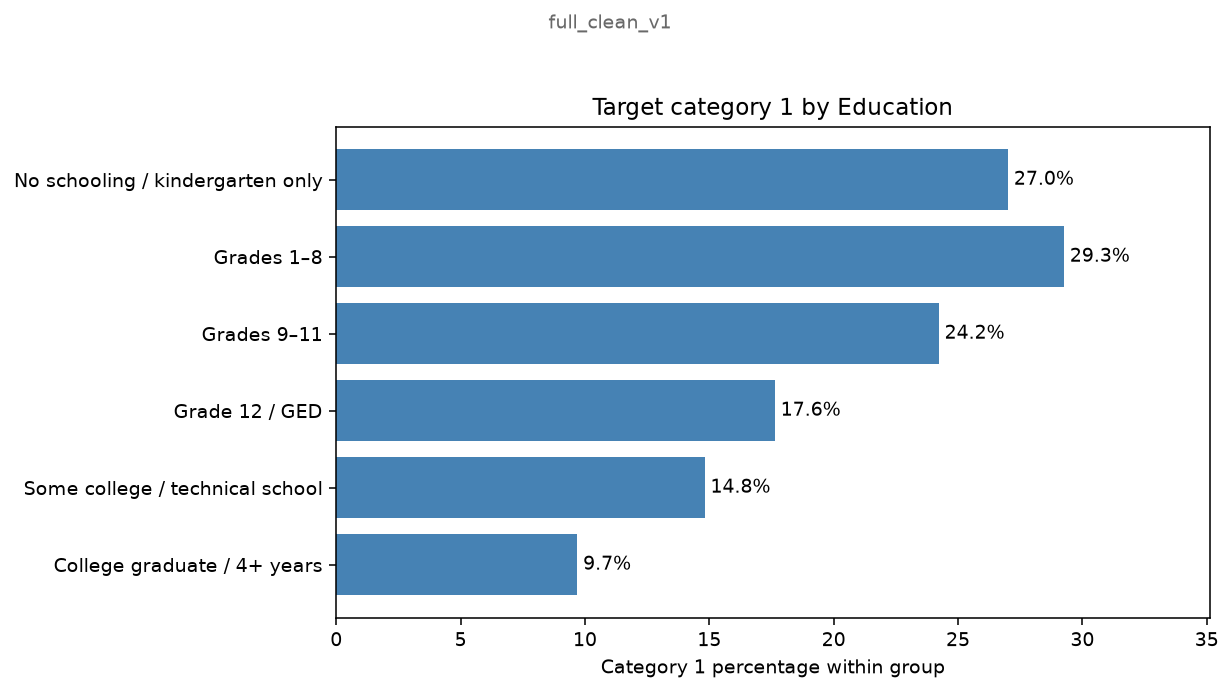
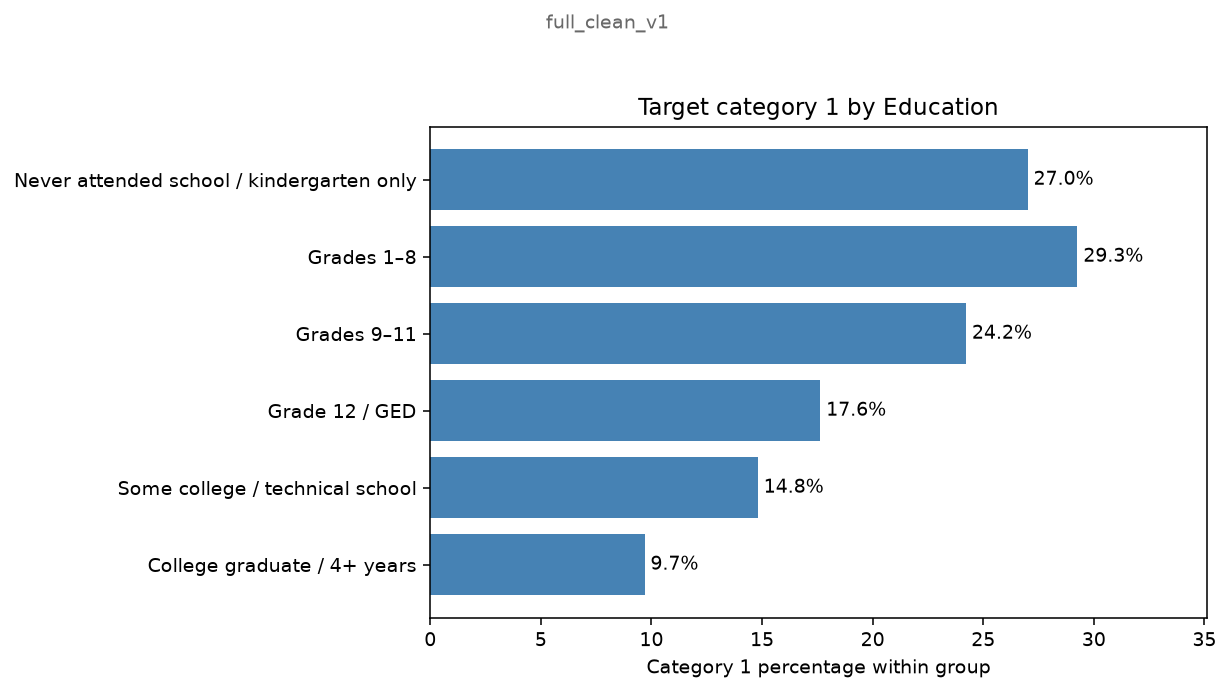
fix(data): use the codebook wording for Education code 1
Config and data dictionary said 'No schooling / kindergarten only'; the project
specification and CDC codebook say 'Never attended school / kindergarten only'.
Updates the seven affected EDA tables and two Education figures, makes the EDA
notebook read its labels from the config instead of a hand-typed copy (which
also mislabelled codes 5 and 6), and adds tests for both fixes.

diff --git a/tests/test_member1_data_eda.py b/tests/test_member1_data_eda.py
@@ -1,4 +1,5 @@
 """Meaningful data/EDA contract tests, runnable with unittest or pytest."""
+import re
 import sys
 import tempfile
 import types
@@ -52,6 +53,20 @@ class LoaderTests(unittest.TestCase):
                 path.write_text(content)
                 with self.subTest(content=content), self.assertRaises(DataLoadError):
                     load_dataset(str(path))
+
+    def test_every_row_with_extra_field_raises_instead_of_shifting(self):
+        with tempfile.TemporaryDirectory() as temp:
+            path = Path(temp)/'sample.csv'
+            for content in ['a,b\n1,2,3\n4,5,6\n', 'a,b\n0,25,99\n1,30,98\n']:
+                path.write_text(content)
+                with self.subTest(content=content), self.assertRaisesRegex(DataLoadError,'more fields than the header'):
+                    load_dataset(str(path))
+
+    def test_trailing_delimiters_keep_columns_aligned(self):
+        with tempfile.TemporaryDirectory() as temp:
+            path = Path(temp)/'sample.csv'
+            path.write_text('a,b\n0,25,\n1,30,\n')
+            assert_frame_equal(load_dataset(str(path)),pd.DataFrame({'a':[0,1],'b':[25,30]}))
 
     def test_kaggle_copies_nested_csv_and_refuses_raw_overwrite(self):
         with tempfile.TemporaryDirectory() as temp:
@@ -211,6 +226,16 @@ class SummaryTests(unittest.TestCase):
         self.assertEqual(get_dashboard_summary(fixture(),'Diabetes_binary')['status'],'success')
         self.assertIn('prevalence',get_eda_summary(fixture(),'Age'))
         self.assertNotIn('prevalence',get_eda_summary(fixture(),'BMI'))
+
+
+class DocumentationTests(unittest.TestCase):
+    def test_education_labels_match_specification_and_dictionary(self):
+        docs = Path(__file__).resolve().parents[1]/'docs'
+        for name,header in [('PROJECT_SPECIFICATION.md','**Education**'),('DATA_DICTIONARY.md','| Education | Label |')]:
+            block = (docs/name).read_text(encoding='utf-8').split(header,1)[1].strip().split('\n\n',1)[0]
+            labels = {int(code):label for code,label in re.findall(r'^\|\s*(\d+)\s*\|\s*(.+?)\s*\|$',block,re.M)}
+            with self.subTest(document=name):
+                self.assertEqual(labels,VARIABLE_METADATA['Education']['category_labels'])
 
 
 if __name__ == '__main__':

diff --git a/src/common/config.py b/src/common/config.py
@@ -36,6 +36,6 @@ VARIABLE_METADATA.update({
  'PhysHlth':_variable('Poor physical-health days','Poor physical-health days in past 30 days; zero is valid.','discrete_numeric',unit='days',minimum=0,maximum=30),
  'GenHlth':_variable('General health','Ordered self-reported general-health rating.','ordinal',{1:'Excellent',2:'Very good',3:'Good',4:'Fair',5:'Poor'},True),
  'Age':_variable('Age group','Grouped age, not age in years.','ordinal',dict(enumerate(['18–24','25–29','30–34','35–39','40–44','45–49','50–54','55–59','60–64','65–69','70–74','75–79','80+'],1)),True),
- 'Education':_variable('Education','Highest completed education category.','ordinal',{1:'No schooling / kindergarten only',2:'Grades 1–8',3:'Grades 9–11',4:'Grade 12 / GED',5:'Some college / technical school',6:'College graduate / 4+ years'}),
+ 'Education':_variable('Education','Highest completed education category.','ordinal',{1:'Never attended school / kindergarten only',2:'Grades 1–8',3:'Grades 9–11',4:'Grade 12 / GED',5:'Some college / technical school',6:'College graduate / 4+ years'}),
  'Income':_variable('Household income','Annual household income in USD; brackets, not exact amounts.','ordinal',{1:'Under USD 10,000',2:'USD 10,000–<15,000',3:'USD 15,000–<20,000',4:'USD 20,000–<25,000',5:'USD 25,000–<35,000',6:'USD 35,000–<50,000',7:'USD 50,000–<75,000',8:'USD 75,000+'})
 })

diff --git a/docs/DATA_DICTIONARY.md b/docs/DATA_DICTIONARY.md
@@ -52,7 +52,7 @@ a check within five years. Income is annual household income in USD.
 
 | Education | Label |
 |---:|---|
-| 1 | No schooling / kindergarten only |
+| 1 | Never attended school / kindergarten only |
 | 2 | Grades 1–8 |
 | 3 | Grades 9–11 |
 | 4 | Grade 12 / GED |
